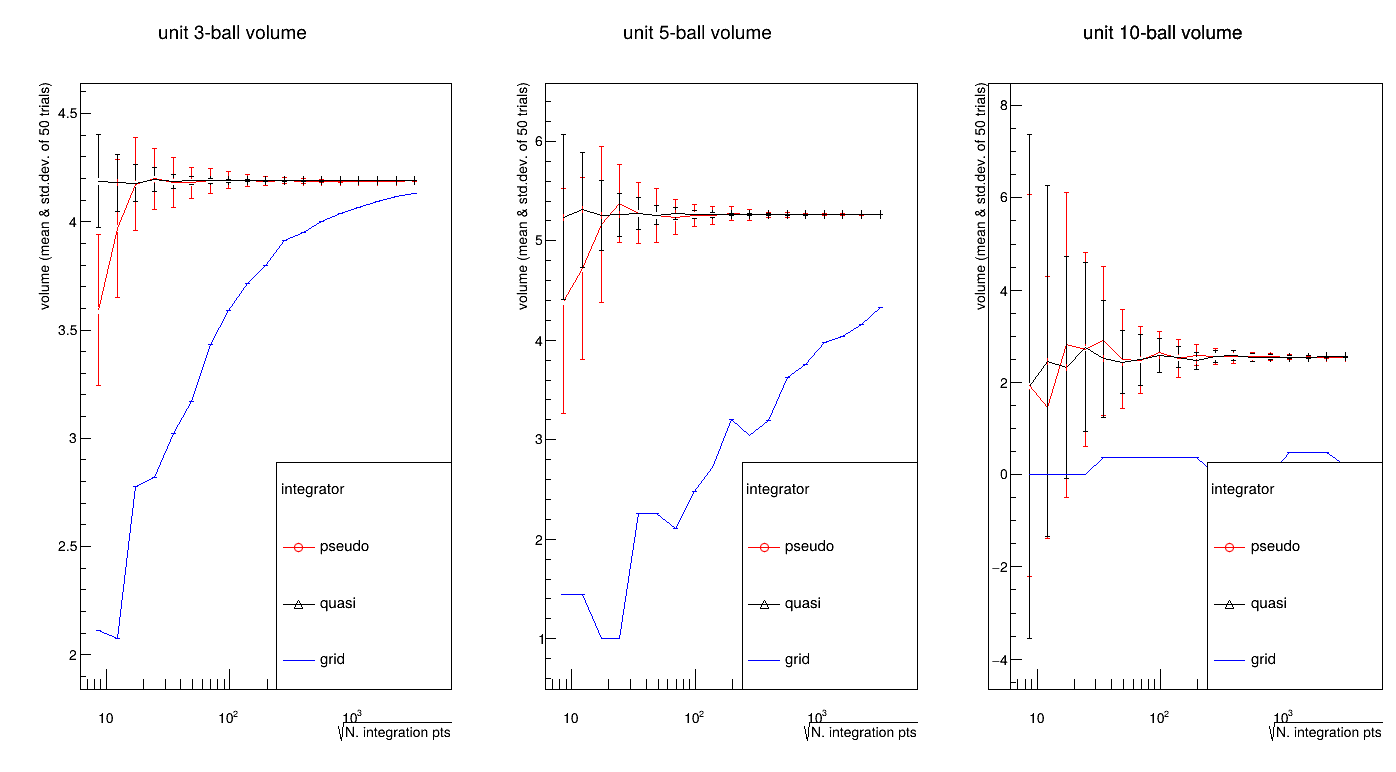
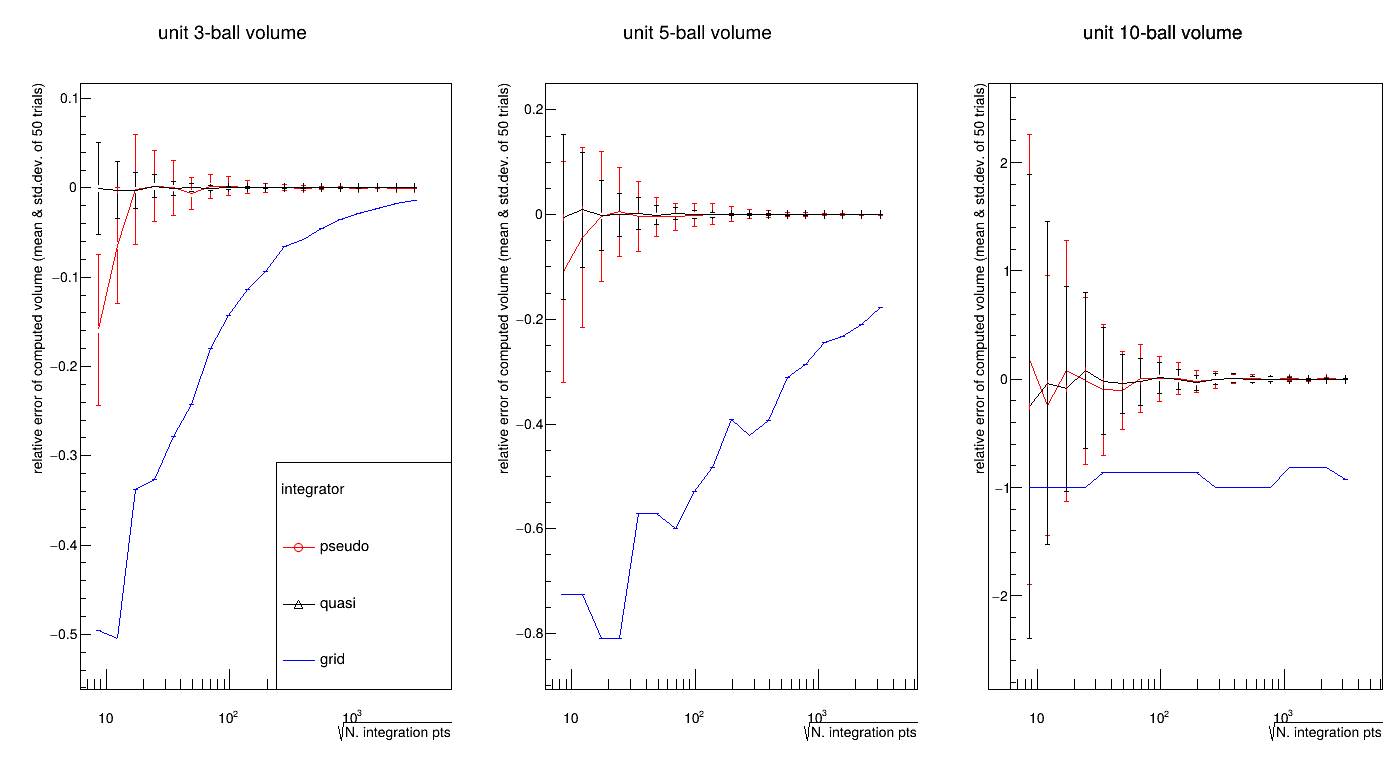
Add 'methods.png' which shows relative error of different integration methods

diff --git a/make_plots.cpp b/make_plots.cpp
@@ -17,6 +17,7 @@
 #include <vector> 
 #include <functional> 
 #include <TLegend.h> 
+#include <Math/SpecFuncMathCore.h>
 
 using namespace std; 
 
@@ -276,6 +277,8 @@ int main(int argc, char* argv[])
 
         int i_canv=1; 
         for (const int dim : dims) {
+
+            const double vol_analytical = pow( TMath::Pi(), ((double)dim)/2. ) / ROOT::Math::tgamma( 1. + ((double)dim)/2. ); 
             
             double min_y{+1.e30}, max_y{-1.e30}; 
             double max_stddev{0.};
@@ -299,6 +302,8 @@ int main(int argc, char* argv[])
                         sphere_sep, type
                     ); 
 
+                    volume = (volume - vol_analytical)/vol_analytical; 
+
                     vals.push_back(volume); 
                 }
                 //now, compute the stddev and mean
@@ -310,8 +315,8 @@ int main(int argc, char* argv[])
                 points.stddev  .push_back(stddev); 
                 
                 //find the min and max y-vals in the dataset 
-                min_y = min<double>( mean - stddev, min_y ); 
-                max_y = max<double>( mean + stddev, max_y ); 
+                min_y = min<double>( (mean - stddev), min_y ); 
+                max_y = max<double>( (mean + stddev), max_y ); 
 
                 max_stddev = max<double>( stddev, max_stddev );
             }; 
@@ -366,7 +371,7 @@ int main(int argc, char* argv[])
             hist_frame->SetTitle(Form(
                 "unit %i-ball volume;"     //title
                 "#sqrt{N. integration pts};"                   //x-axis    
-                "volume (mean & std.dev. of %i trials)",       //y-axis    
+                "relative error of computed volume (mean & std.dev. of %i trials)",       //y-axis    
                 dim, n_evals_per_pt
             ));        
             
@@ -399,7 +404,7 @@ int main(int argc, char* argv[])
             legend->AddEntry(g_pseudo,  "pseudo");
             legend->AddEntry(g_quasi,   "quasi");
             legend->AddEntry(g_grid,    "grid");
-            legend->Draw(); 
+            if (i_canv<2) legend->Draw(); 
 
             i_canv++; 
         }
